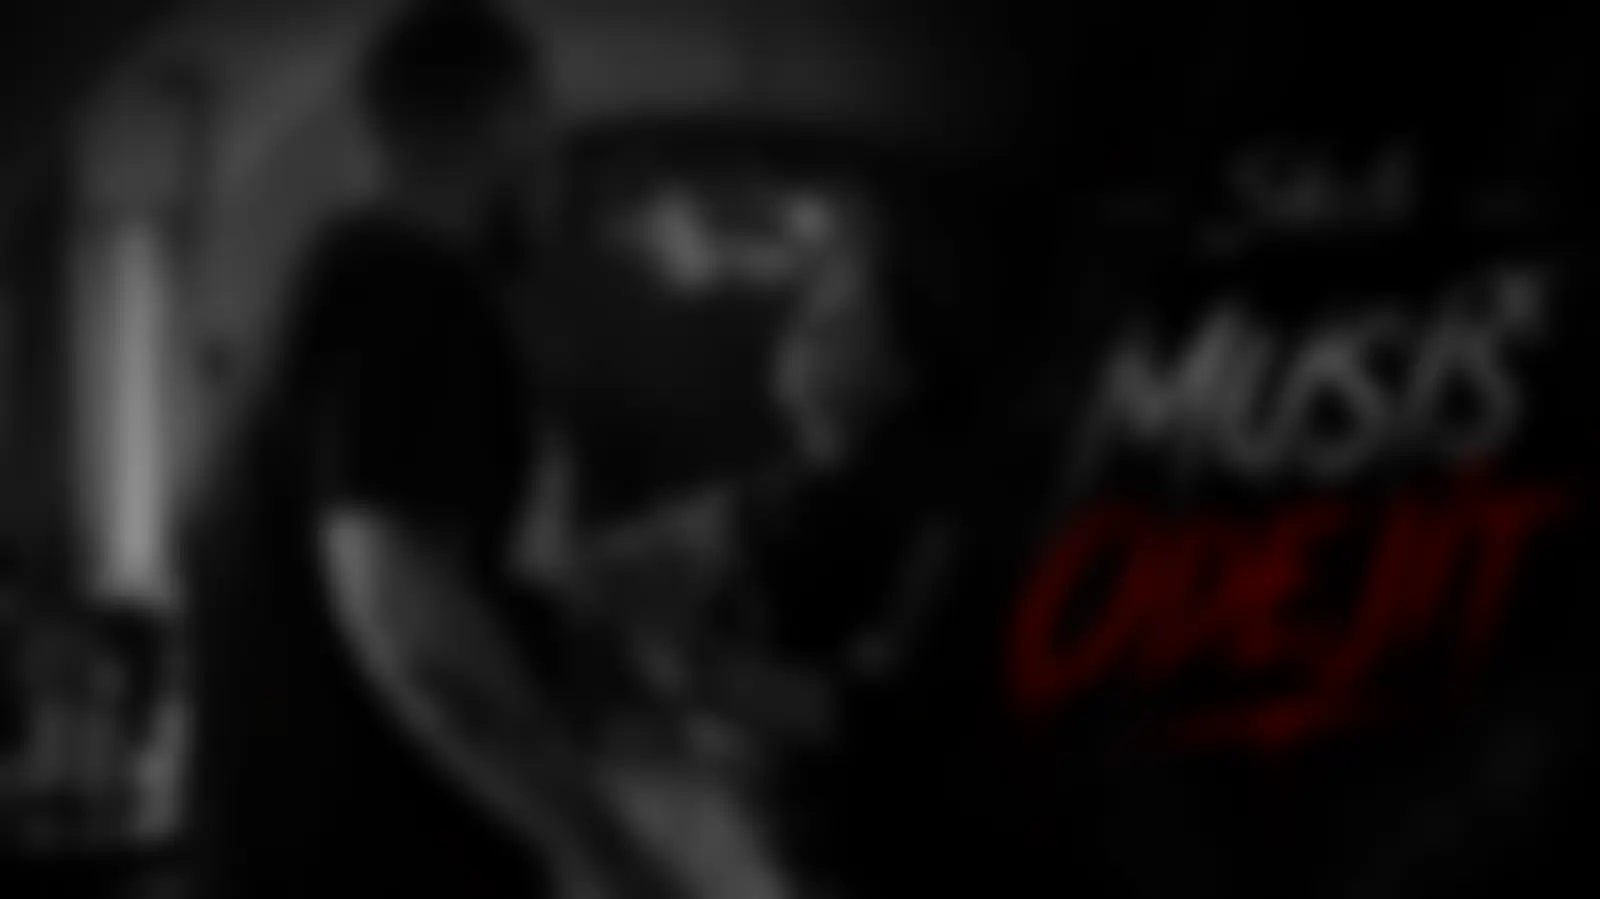
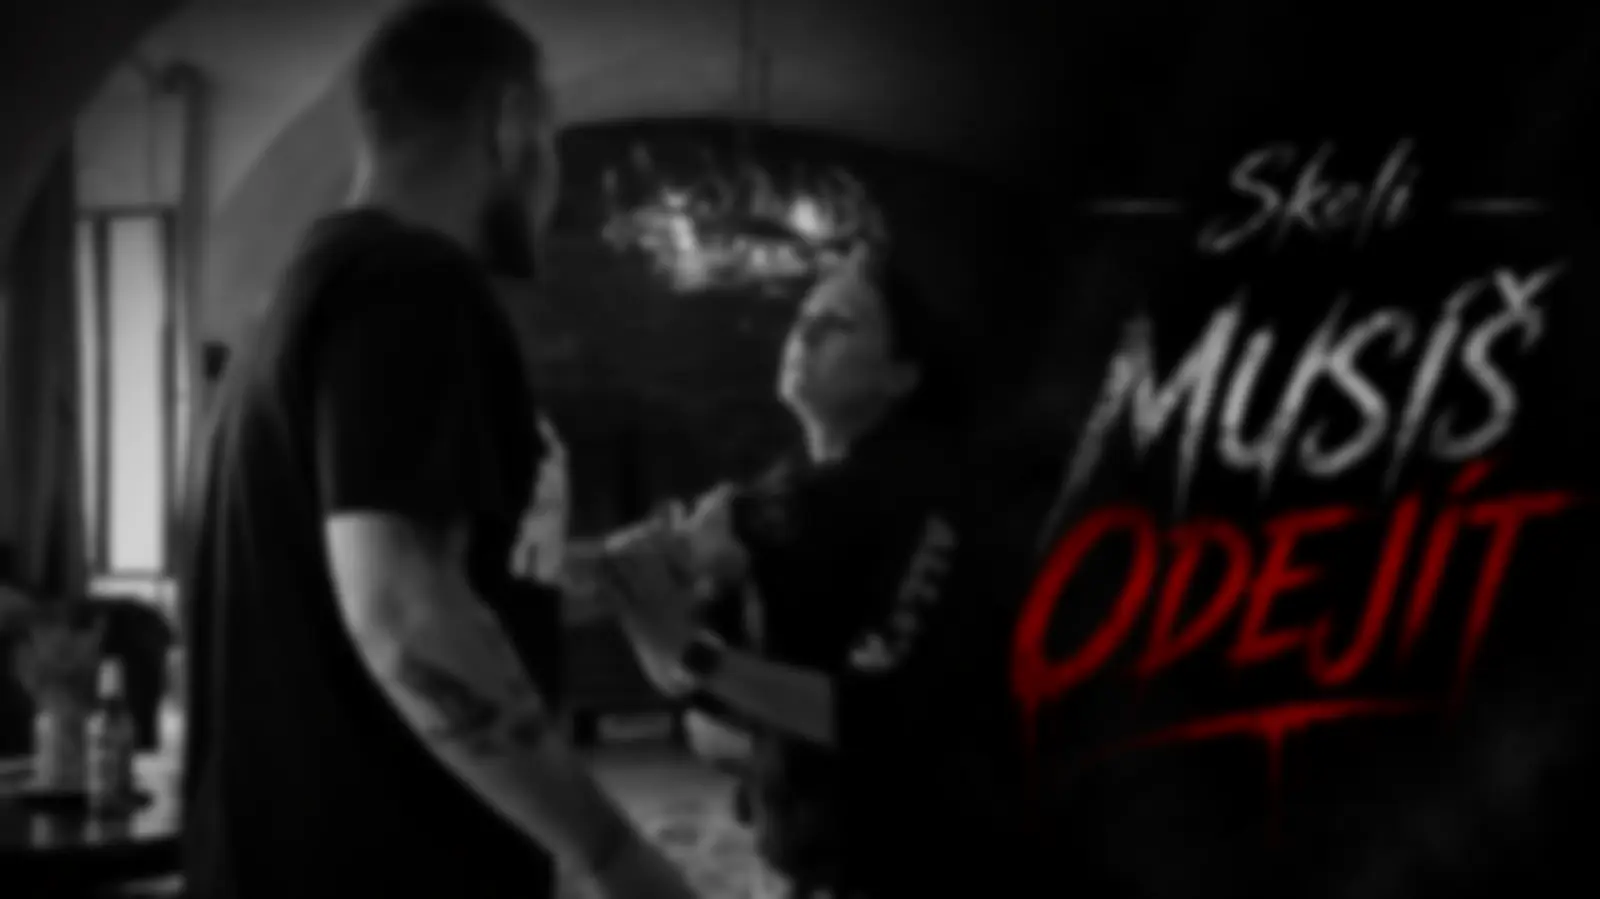
Premiéra: pozadí z fotky klipu je vidět (méně rozmazané, bez dvojího ztmavení, tma jen pod textem), na PC obsah uprostřed obrazovky

diff --git a/src/main/webapp/css/premiera.css b/src/main/webapp/css/premiera.css
@@ -178,10 +178,19 @@ main.pm .pm-jsemtu:disabled { opacity: 1; color: #fff; background: rgba(0, 0, 0,
 .pm.klip .pm-foto { top: 0; left: 0; right: 0; bottom: 0; height: auto; aspect-ratio: auto; transform: none; }
 .pm.klip .pm-ulice { object-fit: cover; }
 .pm.klip .pm-okno, .pm.klip .pm-lampa, .pm.klip .pm-tvoje { display: none; }
+/* fotka má být vidět: skript ji ztmavuje (--pm-jas .45–.6, stavěné pro ulici), tady se přidá světlo; ztmavené je jen místo
+   pod textem (telefon: nahoře a dole, PC: levá strana), při hraní klipu fotka ustoupí */
+.pm.klip .pm-foto { filter: brightness(calc(var(--pm-jas) + .5)) saturate(.9); }
+.pm.klip.is-live .pm-foto, .pm.klip.is-over .pm-foto { filter: brightness(.35); }
 .pm.klip .pm-prechod, body.light main.pm.klip .pm-prechod { top: 0; height: 100%;
-  background: radial-gradient(ellipse at 50% 42%, rgba(0, 0, 0, .35), rgba(0, 0, 0, .8) 75%), linear-gradient(to bottom, transparent 75%, var(--bg)); }
+  background: linear-gradient(to bottom, rgba(9, 9, 11, .55), rgba(9, 9, 11, .35) 35%, rgba(9, 9, 11, .6) 70%, var(--bg)); }
 .pm.klip .pm-prechod::after { display: none; }
 .pm.klip .pm-in { padding-top: clamp(20px, 6vh, 70px); }
+@media (orientation: landscape) {
+  .pm.klip .pm-prechod, body.light main.pm.klip .pm-prechod {
+    background: linear-gradient(90deg, rgba(9, 9, 11, .88), rgba(9, 9, 11, .62) 38%, rgba(9, 9, 11, .18) 72%, rgba(9, 9, 11, .3)),
+      linear-gradient(to bottom, transparent 78%, var(--bg)); }
+}
 /* fotka je i ve světlém režimu tmavá (premiéra je večer): texty zůstanou světlé */
 body.light main.pm.klip .pm-nazev { color: #fff6e8; text-shadow: 0 0 6px rgba(255, 255, 255, .55), 0 0 18px var(--accent), 0 0 42px var(--accent); }
 body.light main.pm.klip .pm-odpocet { color: var(--accent); text-shadow: 0 3px 14px #000; }
@@ -191,7 +200,7 @@ body.light main.pm.klip .pm-pod, body.light main.pm.klip .pm-spolu, body.light m
 /* (okénko stojí mimo řádky textu – position: absolute – takže když se roztáhne, text vlevo se nehne) */
 @media (min-width: 1100px) and (orientation: landscape) {
   .pm.is-wait .pm-in { max-width: 1180px; grid-template-columns: minmax(0, 560px); justify-items: start; text-align: left;
-    min-height: min(760px, calc(100svh - var(--header-h, 64px))); align-content: center; }   /* roztažené okénko se vejde celé, nezajede pod menu */
+    min-height: max(760px, calc(100svh - var(--header-h, 64px))); align-content: center; }   /* obsah uprostřed obrazovky; roztažené okénko se vejde celé */
   .pm.is-wait .pm-hlavni { justify-items: start; }
   .pm.is-wait .pmf, .pm.is-wait .pmf.is-open { position: absolute; left: auto; right: clamp(16px, 3vw, 48px); top: 50%; translate: 0 -50%; margin: 0; }
   .pm.is-wait .pmf:not(.is-open) { width: clamp(360px, 32vw, 480px); --base: -22deg; }   /* roztažené: velikost z js, rovně */

diff --git a/src/main/java/com/github/skeliit/web/site/PremiereServlet.java b/src/main/java/com/github/skeliit/web/site/PremiereServlet.java
@@ -90,7 +90,7 @@ public class PremiereServlet extends HttpServlet {
         if (slug.isEmpty()) return null;
         String path = "/img/premiera/pozadi-" + slug + ".webp";
         try {
-            return ctx.getResource(path) != null ? path + "?v=1" : null;
+            return ctx.getResource(path) != null ? path + "?v=2" : null;   // v: po změně obrázku zvýšit (prohlížeče ho drží v paměti)
         } catch (java.net.MalformedURLException e) {
             return null;
         }
